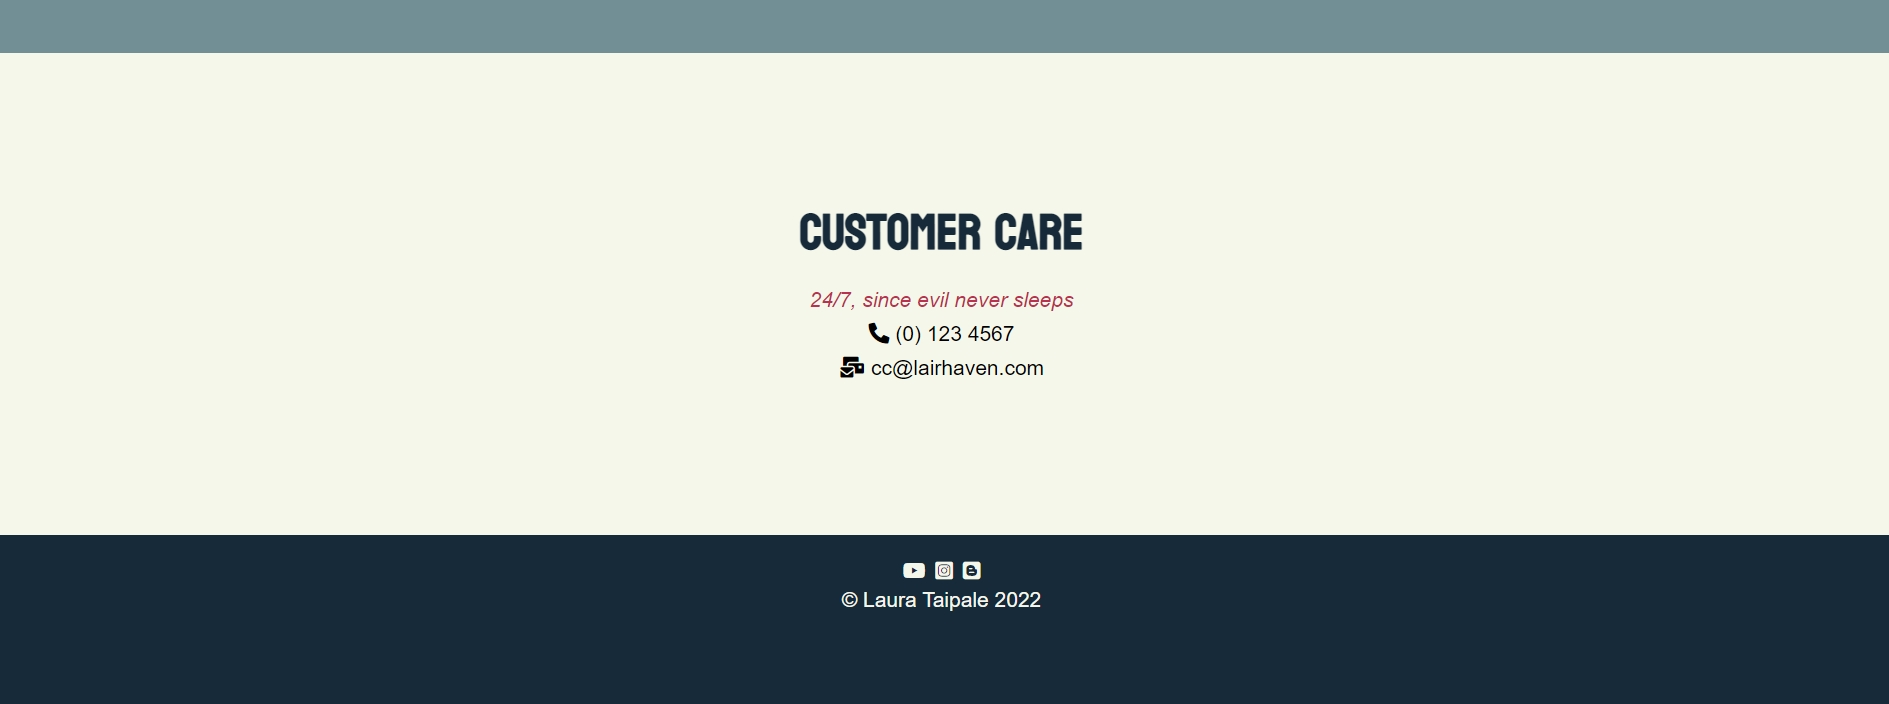
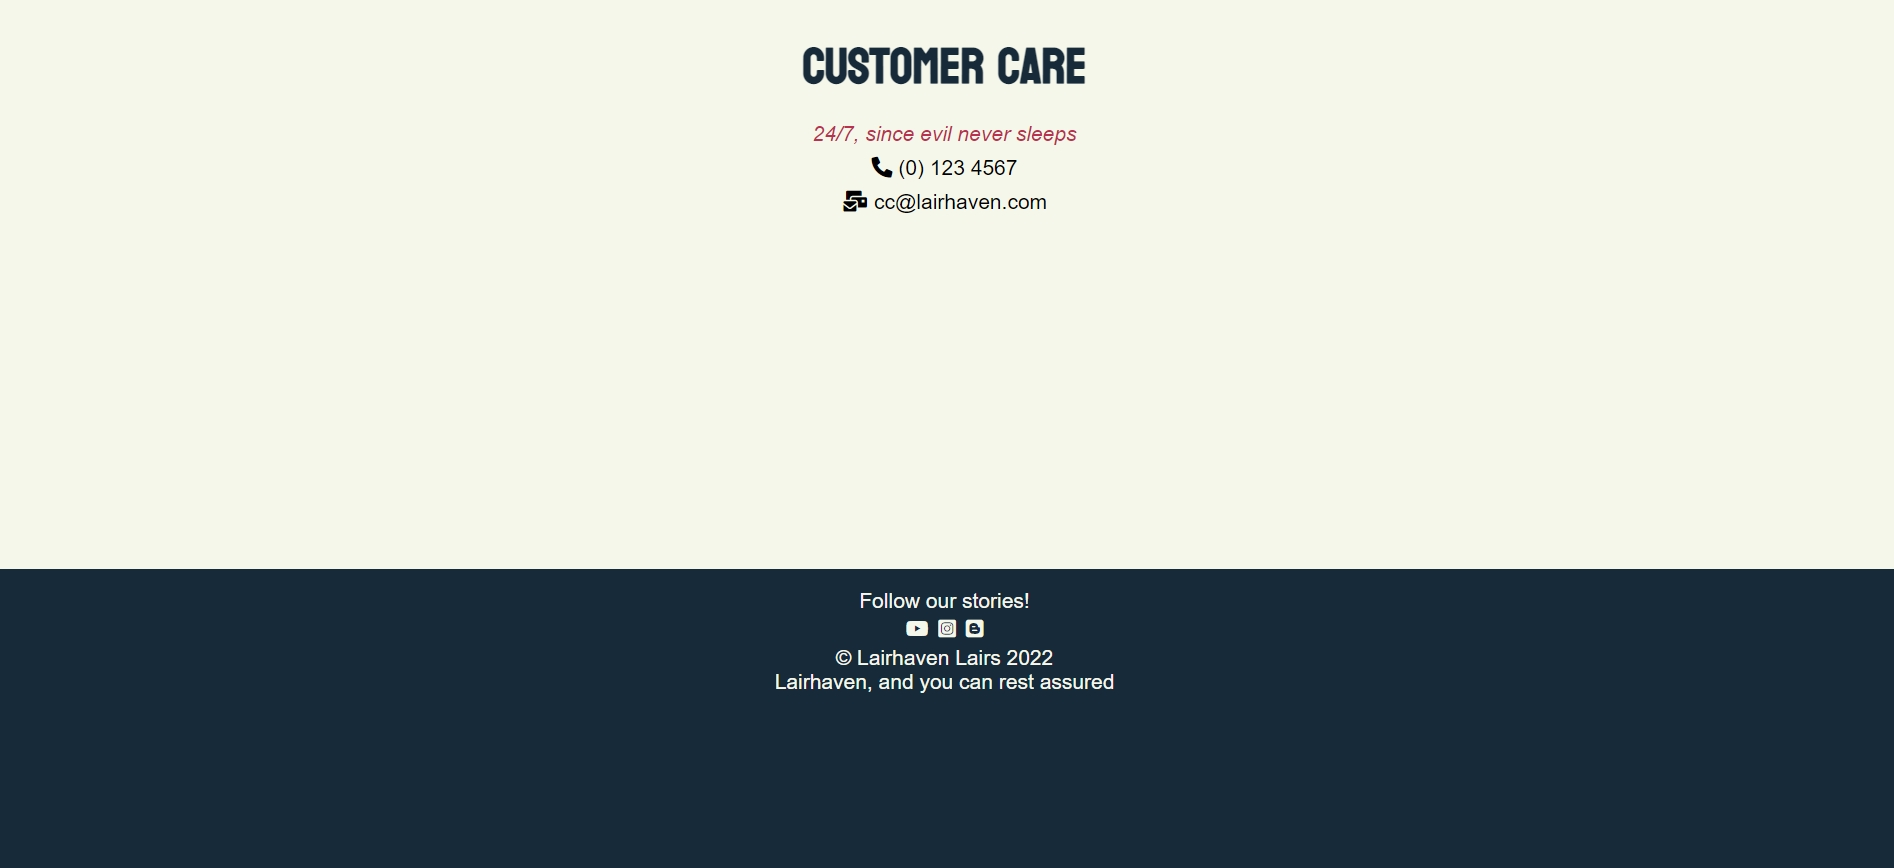
Delete: images that were not used

diff --git a/index.html b/index.html
@@ -176,7 +176,7 @@
                     <div class="formboxcenter important">
                         <label for="styling">Tell us more what you are looking for:</label> <br>
                         <textarea id="styling" name="styling"
-                            placeholder="I want to move to a farm and start raising chickens" rows="10" cols="30"
+                            placeholder="You know what, I want..." rows="10" cols="30"
                             minlength="1" maxlength="1000"></textarea>
                     </div>
 

diff --git a/assets/css/style.css b/assets/css/style.css
@@ -111,8 +111,8 @@ textarea {
     padding: 1rem;
 }
 
-#location-section h2 {
-    max-width: max-content;
+#locations-section h2 {
+   padding-top: 3rem;
 }
 
 #locations {

diff --git a/README.md b/README.md
@@ -1,4 +1,4 @@
-# Lairhaven - website heroes and villains looking for hideout
+# Lairhaven - website for heroes and villains looking for headquarters
 
 Lairhaven provides hideouts and headquarters for superheroes and villains.
 Company leases great locations that are safe and hidden even if they are in the middle of a city,
@@ -66,6 +66,7 @@ Also because of this I have added JavaScript code to make navigation bar visible
 - Pictures and descriptions of locations
 - Each location box has a header, picture and description.
 - Depending of the width of the viewport locations are shown 1, 2 or 3 in a row
+- Pictures are meant to be thumbnails, and wont be bigger than 300px x 500px
 
 ![lairhaven](assets/images/lairhaven-location-computer.jpeg "Locations on computer screen")
 
@@ -90,9 +91,10 @@ Also because of this I have added JavaScript code to make navigation bar visible
 
 ### Contact
 - Information on how to contact Customer Care
+- There is more space here between Customer Care section and footer to make landing to the section after clicking navigation more smooth.
 
 ### Footer:
-- Just my name and Social media links
+- Links to Lairhaven socialmedia accounts, where they share stories and pictures of the locations
 ![lairhaven](assets/images/lairhaven-cc.jpeg "Customer care and footer")
 
 
@@ -114,21 +116,27 @@ Also because of this I have added JavaScript code to make navigation bar visible
 
 ## ISSUES
 
--20/5:After having meeting with my mentor 19.5.2022 it was decided to change the page structure from 3 different page to one main page. This would make the page more mobile friendly. At the same time the navigation bar would be set to be sitting at the top of the screen by all times. Because of this change there will be a lot of change to the code.
+- 20/5:After having meeting with my mentor 19.5.2022 it was decided to change the page structure from 3 different page to one main page. This would make the page more mobile friendly. At the same time the navigation bar would be set to be sitting at the top of the screen by all times. Because of this change there will be a lot of change to the code.
 
--21/5: One of the main issues after moving all the information to one page was re-do navigation bar. It needed to have links to all the different sections to the page, and to make navigating in the site easier it should be accessible whole time. Hence, it needed to be sticky and stuck at the top of the page. I havent yet learned JavaScript to do this, so I have taken the needed code from W3 Schools tutorial.
+- 21/5: One of the main issues after moving all the information to one page was re-do navigation bar. It needed to have links to all the different sections to the page, and to make navigating in the site easier it should be accessible whole time. Hence, it needed to be sticky and stuck at the top of the page. I havent yet learned JavaScript to do this, so I have taken the needed code from W3 Schools tutorial.
 -~~Currently having problem to make navbar to move up when scrolling down, so navbar will be sitting over the header for now.~~ *Fixed*
--Tried to add a second header text to header. Too many different fonts.
 
-22/5: Adding margin to the page when screen is wider than 950px. Have to exclude Locations from the .section rule and create  ID locations-section for it.
+- Tried to add a second header text to header. Too many different fonts.
+
+- 22/5: Adding margin to the page when screen is wider than 950px. Have to exclude Locations from the .section rule and create  ID locations-section for it.
 Changed the hero-image to more neutral one, so that it doesnt matter if the header covers part of it in different viewports. Moved original image lower down since it is still a good image that gives information of the site.
-~~Problem: Unexpected space between sections, need to locate the problem.~~ *Found the typo from CSS.*
+- ~~Problem: Unexpected space between sections, need to locate the problem.~~ *Found the typo from CSS.* -Fixed-
 
-~~Got the sticky navbar working in one line but then its too wide for the narrower devices. Solution: Smaller font to smaller screens (1.2rem), change to 1.6rem screen 499px>.~~
+- Got the sticky navbar working in one line but then its too wide for the narrower devices. Solution: Smaller font to smaller screens (1.2rem), change to 1.6rem screen 499px>. -Fixed-
 
-Using Google Chrome Lighthouse developer tool to check for problems. Found dublicate ID "consent". Changed outer div ID to "form-consent"
+- Using Google Chrome Lighthouse developer tool to check for problems. Found dublicate ID "consent". Changed outer div ID to "form-consent" -Fixed-
 
-Found out with CSS validator that my double reset code for fonts (to make the default font size 10px and makes it easier to use rem as measurement) was wrong this whole time. I had written it as fontsize: 62,5% instead of 62.5%. Had to make sure it is right this time.
+- Found out with CSS validator that my double reset code for fonts (to make the default font size 10px and makes it easier to use rem as measurement) was wrong this whole time. I had written it as fontsize: 62,5% instead of 62.5%. Had to make sure it is right this time.
+
+- 23/5: Bug: Tested page in different viewports and browsers, and found a bug on Firefox that locations-boxes have different sizes depending on how much text they have.
+Also in wide screen (over 1900px wide) the pictures become four in a row. Trying to fix this by adding more margin.
+- ~~After clicking navbar and jumping to different parts on a page h2 is in different levels.~~ Fixed most of it by making sure that connected ID was in the section and not in inner dividers. Found the bug from the code, added padding to h2 and corrected the typo.
+
 
 
 ## DEPLOYMENT
